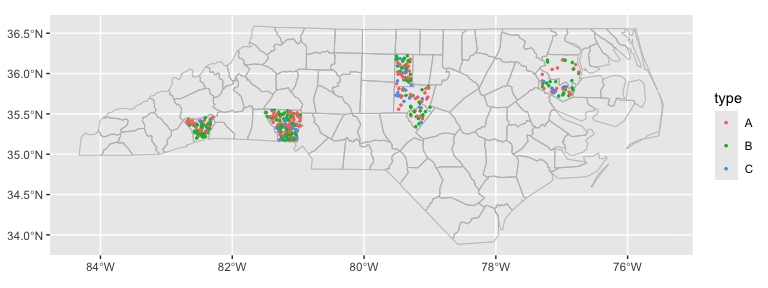
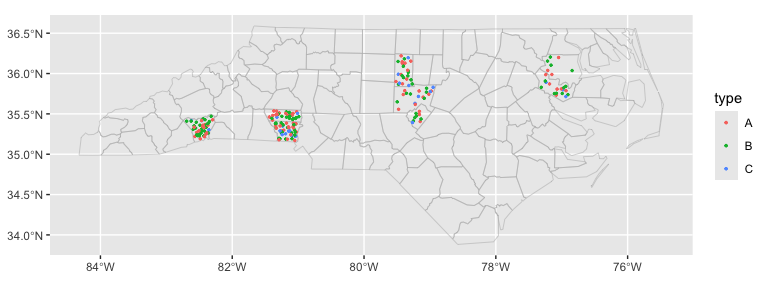
Rebuild docs

diff --git a/NEWS.md b/NEWS.md
@@ -3,6 +3,9 @@
 * Updated to use new inset shape definition style from {ggmapinset}.
   There is no longer a need to override the `configure_inset()` function
   which was brittle and depended on order of package attachment to work.
+* Require a newer version of {ggmapinset} to fix a confusing behaviour
+  where a geom with no inset configured could sometimes draw two copies
+  of itself (#5).
 * `stat_geoscatter()` and `geom_geoscatter()` now use a fixed seed by
   default so that the position of scattered points is reproducible.
   The old behaviour can be restored by setting `seed = NA`.

diff --git a/README.md b/README.md
@@ -99,7 +99,7 @@ ggplot(nc_type_example_2, aes(location = county)) +
   coord_automap(feature_type = "sf.nc")
 ```
 
-<img src="man/figures/README-example-basic-1.png" width="100%" />
+<img src="man/figures/README-example-basic-1.png" alt="" width="100%" />
 
 ``` r
 ggplot(nc_type_example_2, aes(location = county)) +
@@ -109,4 +109,4 @@ ggplot(nc_type_example_2, aes(location = county)) +
   coord_automap(feature_type = "sf.nc")
 ```
 
-<img src="man/figures/README-example-basic-2.png" width="100%" />
+<img src="man/figures/README-example-basic-2.png" alt="" width="100%" />
